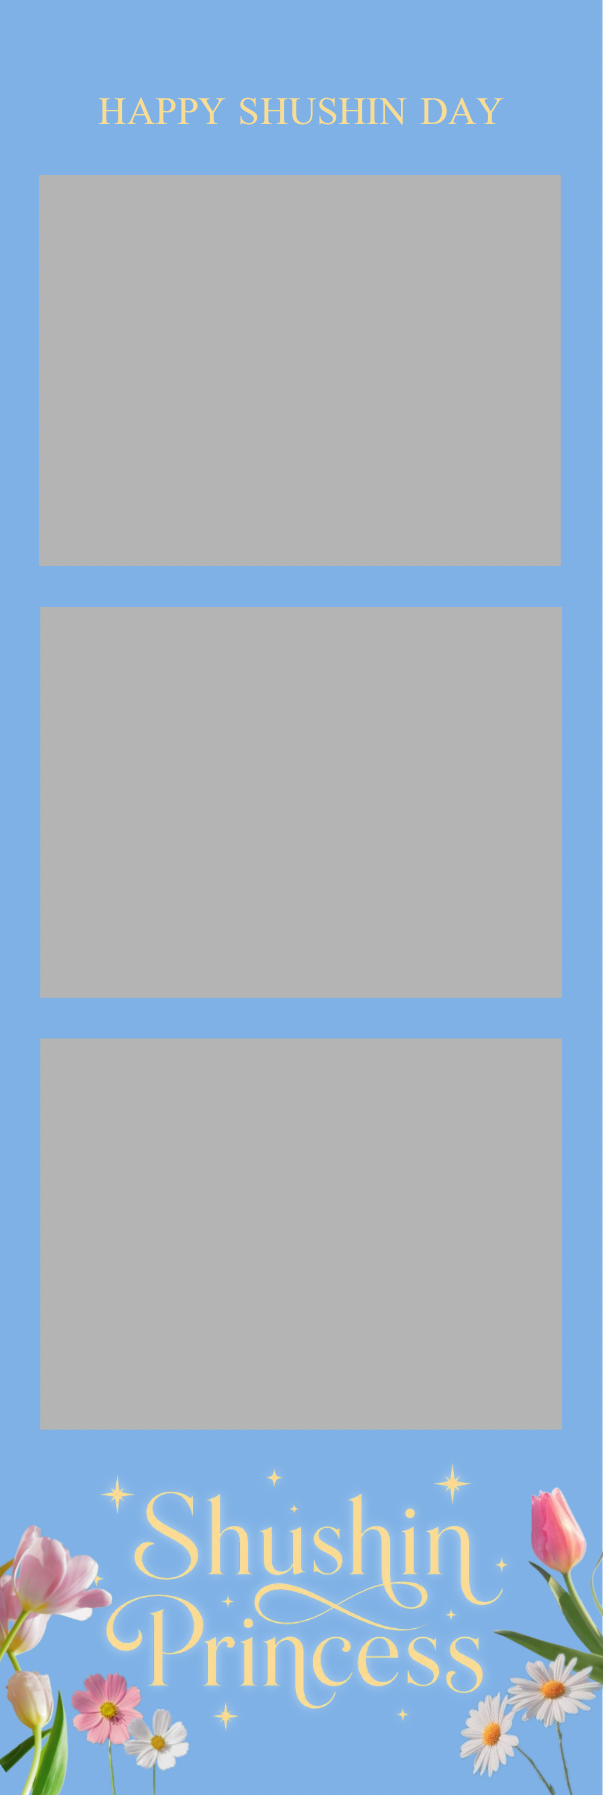
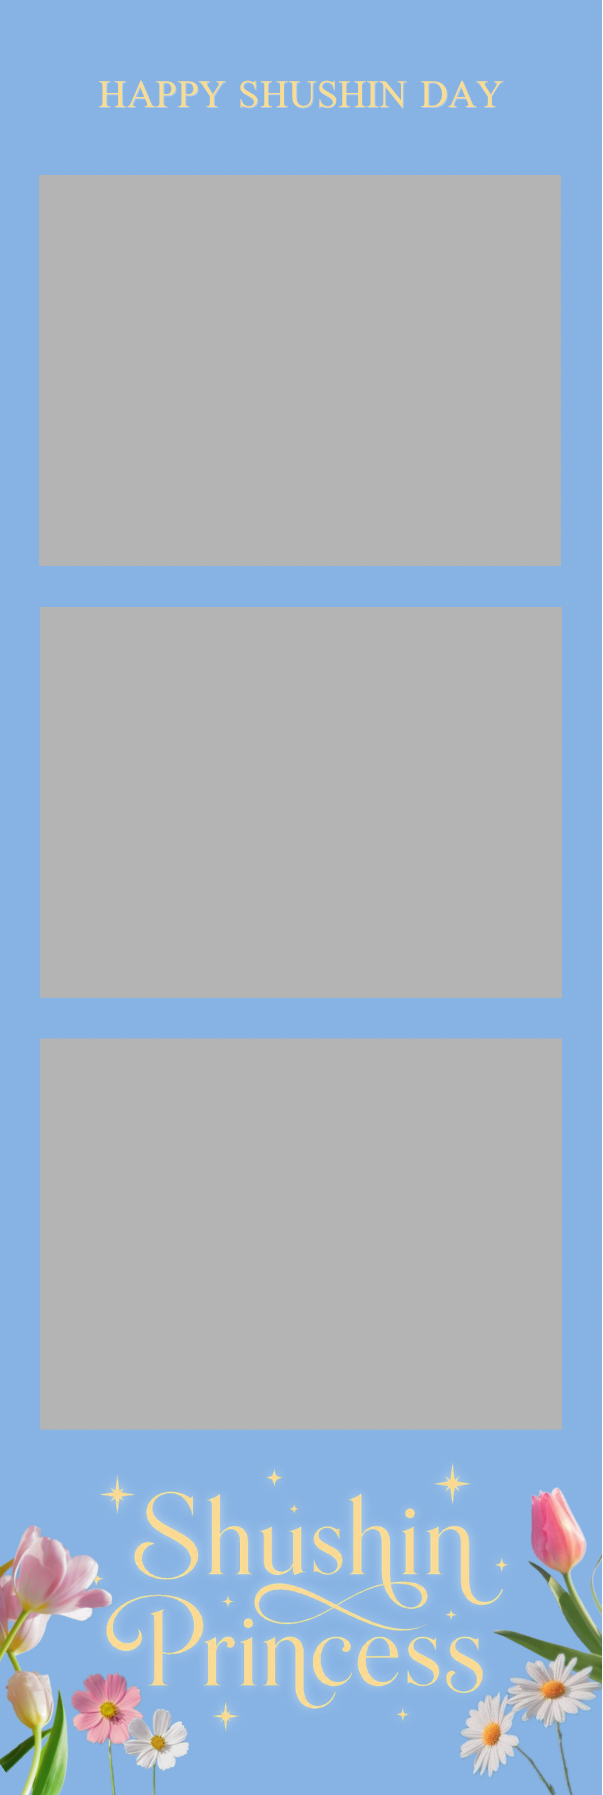
Add files via upload

Changed region(s): [[0.9851, 0.0, 1.0, 1.0], [0.3881, 0.0312, 0.8358, 0.0936], [0.1493, 0.0312, 0.3582, 0.0936]]

diff --git a/index.html b/index.html
@@ -62,7 +62,7 @@
   }
   .frame-wrap{
     position:relative;
-    background: #7fb6e8;
+    background: #87b3e4;
     border-radius: 0;
     box-shadow: 0 8px 22px rgba(0,0,0,0.15);
     aspect-ratio: 603 / 1795;
@@ -244,7 +244,7 @@
   }
   .sticker-stage{
     position:relative;
-    width: min(86vw, 300px, calc(62dvh * 603 / 1795));
+    width: min(92vw, 340px, calc(68dvh * 603 / 1795));
     aspect-ratio: 603 / 1795;
     margin: 0 auto;
     touch-action: pan-y;
